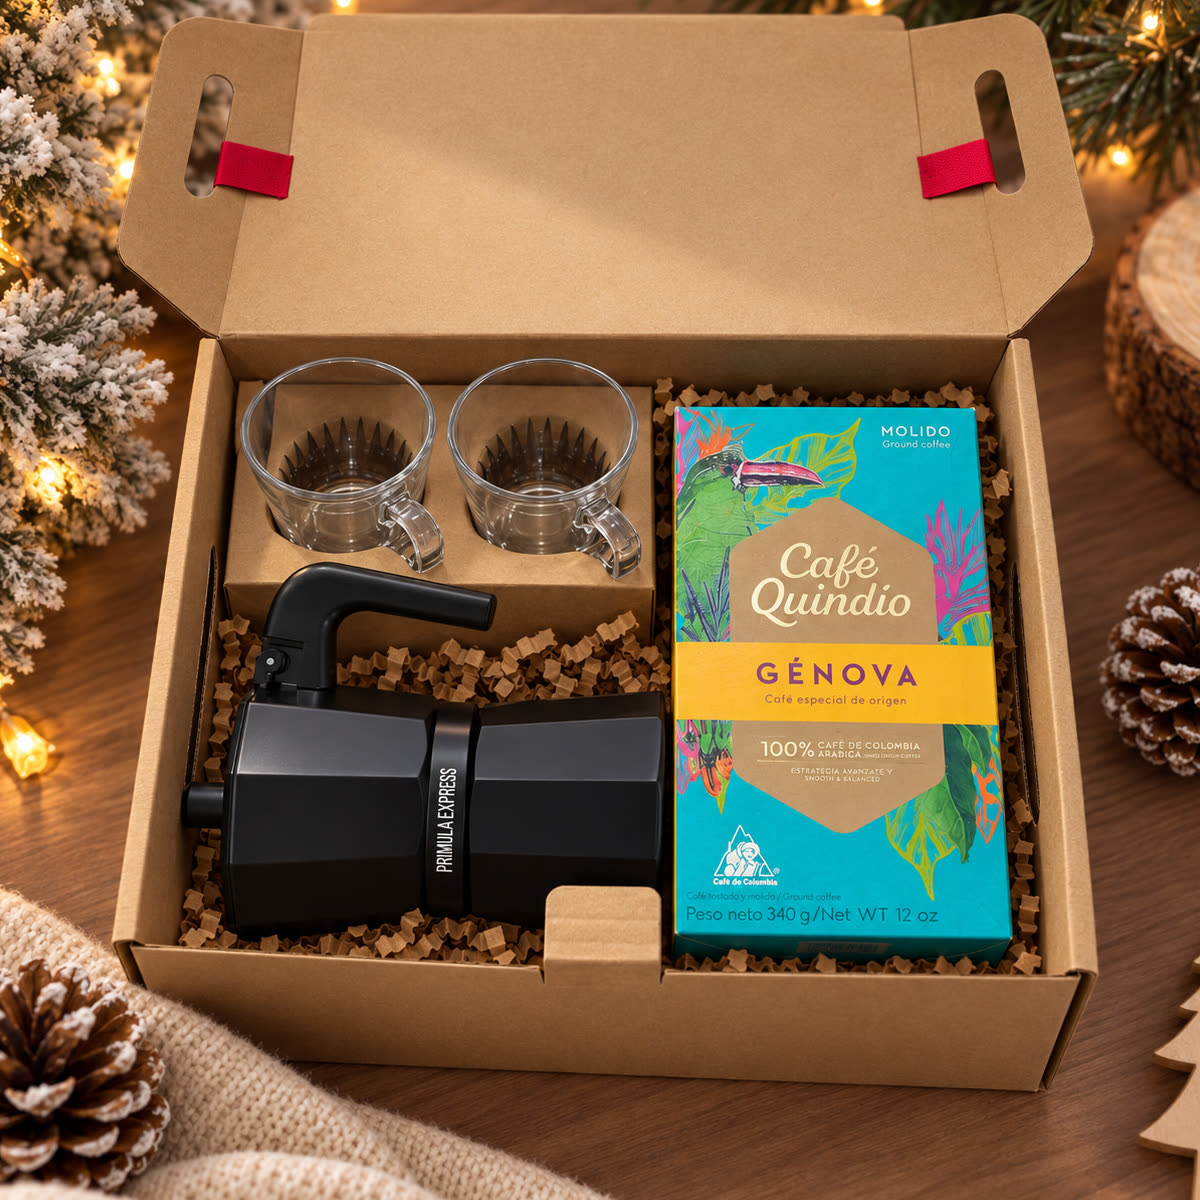
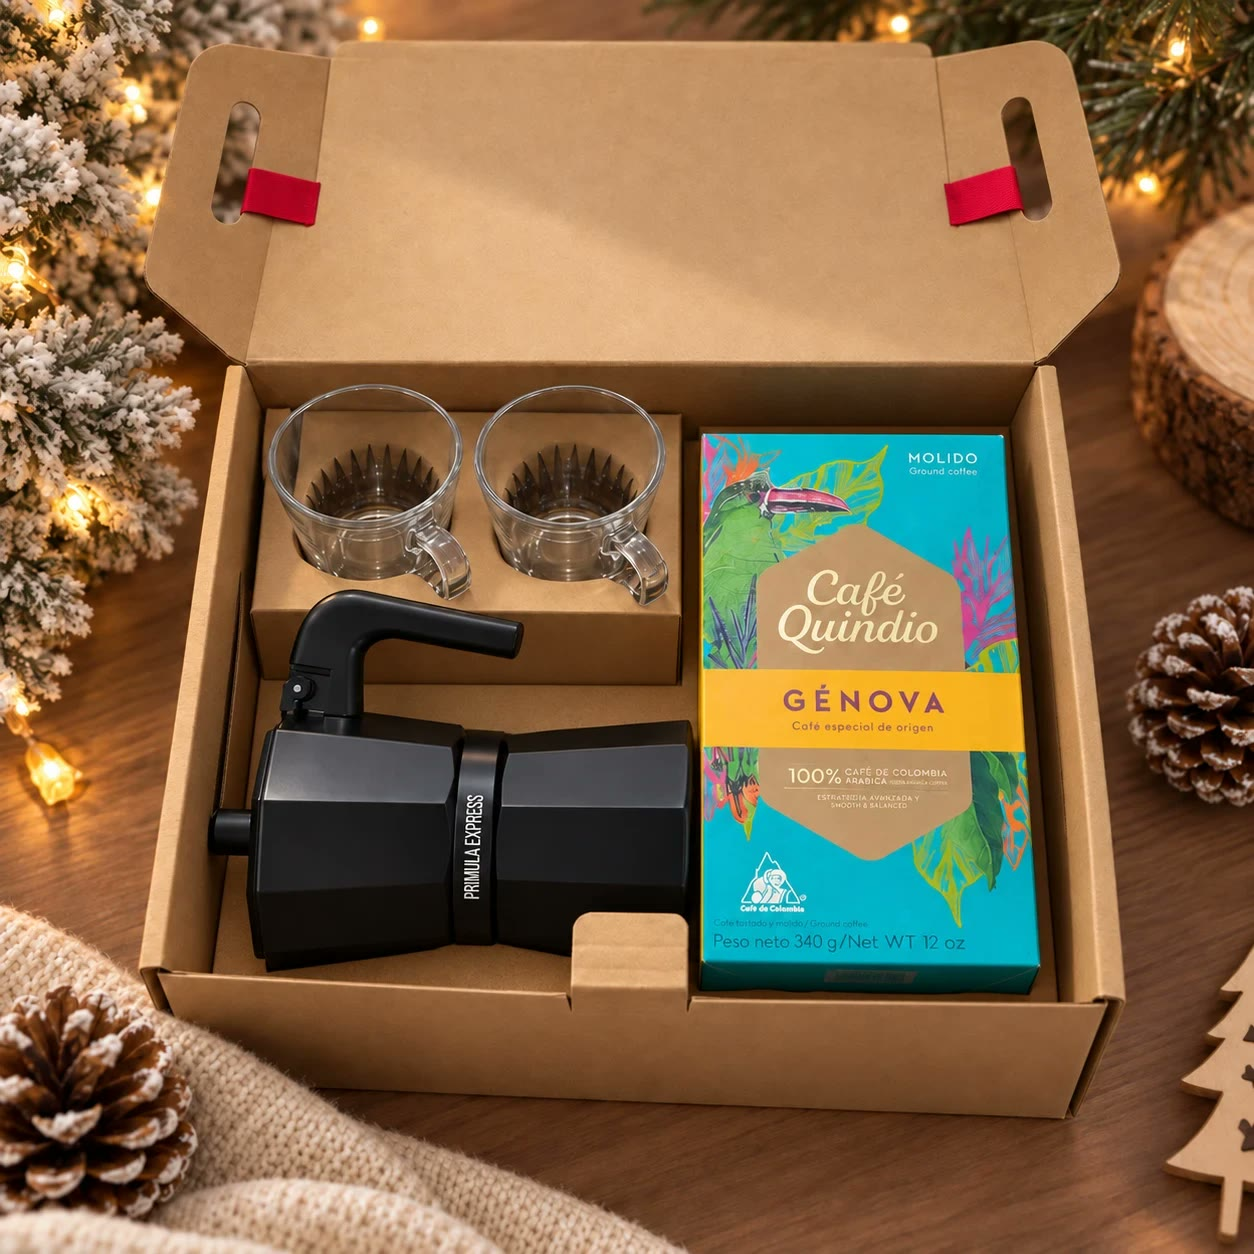
Kits: fotos nuevas (Picnic, Entre Amigos, Entre Sabores, Sabor Navideño, Café Express, Navidad Fresh), recuadro cuadrado, ajustes de contenido y 2 termos

diff --git a/assets/js/products.js b/assets/js/products.js
@@ -1067,8 +1067,8 @@ const KITS_ARMADOS = [
     id: "kit-barista",
     name: "Kit Momento Café",
     code: "KIT-102",
-    description: "Todo para preparar café en casa u oficina: prensa francesa, café Quindío de origen con notas a chocolate y panela y un termo de acero inoxidable con grabado láser de tu marca. Presentado en caja de regalo.",
-    contents: ["Prensa francesa", "Café Quindío 250 g — Cosecha Especial", "Termo de acero inoxidable con grabado láser"],
+    description: "Todo para preparar café en casa u oficina: prensa francesa, café Quindío de origen con notas a chocolate y panela y dos termos de acero inoxidable con grabado láser de tu marca. Presentado en caja de regalo.",
+    contents: ["Prensa francesa", "Café Quindío 250 g — Cosecha Especial", "2 termos de acero inoxidable con grabado láser"],
     minQty: 20,
     photo: "assets/img/kits/kit-102-barista.jpg",
     video: "assets/img/kits/kit-102-barista.mp4?v=2",
@@ -1077,10 +1077,10 @@ const KITS_ARMADOS = [
     id: "kit-vino-queso",
     name: "Kit Entre Sabores",
     code: "KIT-107",
-    description: "El clásico para brindar: vino tinto Carmenere, queso holandés, chocolates Ferrero Rocher y una copa de cristal. Presentado en caja de regalo.",
-    contents: ["Vino tinto Viña Maipo Carmenere", "Queso Holandés Alpina 250 g", "Chocolates Ferrero Rocher", "Copa de vino"],
+    description: "El clásico para brindar: vino tinto Carmenere, queso holandés, chocolates Ferrero Rocher y una copa de cristal, acomodados sobre papel de regalo interno. Presentado en caja de regalo.",
+    contents: ["Vino tinto Viña Maipo Carmenere", "Queso Holandés Alpina 250 g", "Chocolates Ferrero Rocher", "Copa de vino", "Papel de regalo interno"],
     minQty: 20,
-    photo: "assets/img/kits/kit-107.jpg",
+    photo: "assets/img/kits/kit-107.jpg?v=2",
   },
   {
     id: "kit-ritual-cafe",
@@ -1095,10 +1095,10 @@ const KITS_ARMADOS = [
     id: "kit-sobremesa",
     name: "Kit Entre Amigos",
     code: "KIT-103",
-    description: "Para cerrar la cena en grande: café en grano de origen Nariño, crema irlandesa Baileys, galletas danesas y dos vasos de doble pared para disfrutar la sobremesa. Presentado en caja de regalo.",
-    contents: ["Café en grano Juan Valdez de origen Nariño (sin moler)", "Baileys Original Irish Cream", "Galletas Royal Dansk 7 oz", "2 vasos de vidrio doble pared"],
+    description: "Para cerrar la cena en grande: café molido de origen Nariño, crema irlandesa Baileys, galletas danesas y dos vasos de doble pared para disfrutar la sobremesa. Presentado en caja de regalo.",
+    contents: ["Café molido Juan Valdez de origen Nariño 250 g", "Baileys Original Irish Cream", "Galletas Royal Dansk 7 oz", "2 vasos de vidrio doble pared"],
     minQty: 20,
-    photo: "assets/img/kits/kit-103-sobremesa.jpg",
+    photo: "assets/img/kits/kit-103-sobremesa.jpg?v=2",
   },
   {
     id: "kit-picoteo",
@@ -1107,7 +1107,7 @@ const KITS_ARMADOS = [
     description: "Una caja para compartir en las reuniones de diciembre: queso holandés, papas Pringles, chocolates Ferrero Rocher, galletas danesas y crema irlandesa Baileys. Presentado en caja de regalo.",
     contents: ["Queso Holandés Alpina 250 g", "Papas Pringles BBQ 71 g", "Baileys Original Irish Cream", "Chocolates Ferrero Rocher 50 g", "Galletas Royal Dansk 7 oz"],
     minQty: 20,
-    photo: "assets/img/kits/kit-104-picoteo.jpg",
+    photo: "assets/img/kits/kit-104-picoteo.jpg?v=2",
   },
   {
     id: "kit-cervecero",
@@ -1125,7 +1125,7 @@ const KITS_ARMADOS = [
     description: "Para quienes no se pierden su café de cada día: cafetera italiana (moka) de 6 tazas con la que se prepara un café intenso y aromático en minutos, dos tazas de vidrio para servirlo y café 100% colombiano de origen Quindío, molido. Presentado en caja de cartón kraft con detalles en rojo.",
     contents: ["Cafetera italiana (moka) de 6 tazas", "2 tazas de vidrio", "Café Quindío Génova 340 g"],
     minQty: 10,
-    photo: "assets/img/kits/kit-106.jpg",
+    photo: "assets/img/kits/kit-106.jpg?v=3",
   },
   {
     id: "kit-picnic-gourmet",
@@ -1134,7 +1134,7 @@ const KITS_ARMADOS = [
     description: "Nuestro kit más completo: canasta de picnic en mimbre con dos copas, vino tinto, queso holandés, galletas danesas, mix de frutos secos, papas Pringles y platos.",
     contents: ["Canasta de picnic con 2 copas y platos", "Vino tinto Viña Maipo Carmenere", "Queso Holandés Alpina", "Galletas Royal Dansk 200 g", "Mix Cacao y Pretzels Manitoba", "Papas Pringles BBQ 71 g"],
     minQty: 10,
-    photo: "assets/img/kits/kit-108.jpg",
+    photo: "assets/img/kits/kit-108.jpg?v=2",
   },
   {
     id: "kit-vino-para-dos",
@@ -1149,10 +1149,10 @@ const KITS_ARMADOS = [
     id: "kit-nevera-navidena",
     name: "Kit Navidad Fresh",
     code: "KIT-110",
-    description: "Para compartir con el equipo en planes al aire libre, reuniones o celebraciones: nevera portátil roja de 11,4 litros con asa para mantener todo bien frío, acompañada de cervezas Corona en lata, papas Pringles, mix de frutos secos con cacao y queso holandés.",
-    contents: ["Nevera portátil de 11,4 litros", "6 cervezas Corona en lata", "Papas Pringles Original 124 g", "Mix Cacao Manitoba", "Queso Holandés Alpina"],
+    description: "Para compartir con el equipo en planes al aire libre, reuniones o celebraciones: nevera portátil roja de 11,4 litros con asa para mantener todo bien frío, acompañada de cervezas Corona en lata, papas Pringles, mix de frutos secos con cacao, queso holandés y una jarra cervecera de vidrio para servir.",
+    contents: ["Nevera portátil de 11,4 litros", "6 cervezas Corona en lata", "Papas Pringles Original 124 g", "Mix Cacao Manitoba", "Queso Holandés Alpina", "Jarra cervecera de vidrio"],
     minQty: 20,
-    photo: "assets/img/kits/kit-110.jpg",
+    photo: "assets/img/kits/kit-110.jpg?v=2",
   },
 ];
 

diff --git a/index.html b/index.html
@@ -9,7 +9,7 @@
 <link rel="preconnect" href="https://fonts.googleapis.com">
 <link rel="preconnect" href="https://fonts.gstatic.com" crossorigin>
 <link href="https://fonts.googleapis.com/css2?family=Fraunces:ital,opsz,wght@0,9..144,500;0,9..144,600;0,9..144,700;0,9..144,900;1,9..144,600&family=Playfair+Display:ital,wght@1,600&family=Inter:wght@400;500;600;700;800&display=swap" rel="stylesheet">
-<link rel="stylesheet" href="assets/css/styles.css?v=25">
+<link rel="stylesheet" href="assets/css/styles.css?v=30">
 </head>
 <body class="splash-active">
 
@@ -392,7 +392,7 @@
   </div>
 </template>
 
-<script src="assets/js/products.js?v=25"></script>
-<script src="assets/js/main.js?v=25"></script>
+<script src="assets/js/products.js?v=30"></script>
+<script src="assets/js/main.js?v=30"></script>
 </body>
 </html>

diff --git a/assets/css/styles.css b/assets/css/styles.css
@@ -899,3 +899,7 @@ body.splash-active{ overflow:hidden; }
 /* Las fotos de anchetas son tarjetas cuadradas con título y lista de productos:
    se muestran completas, sin recortar arriba/abajo. */
 #kitsGrid .kit-media{ aspect-ratio:1/1; }
+
+/* Las fotos de kits son cuadradas (producto + caja completos): recuadro cuadrado
+   para que no se recorten café, galletas ni bordes de la caja. */
+#kitsArmadosGrid .kit-media{ aspect-ratio:1/1; }
